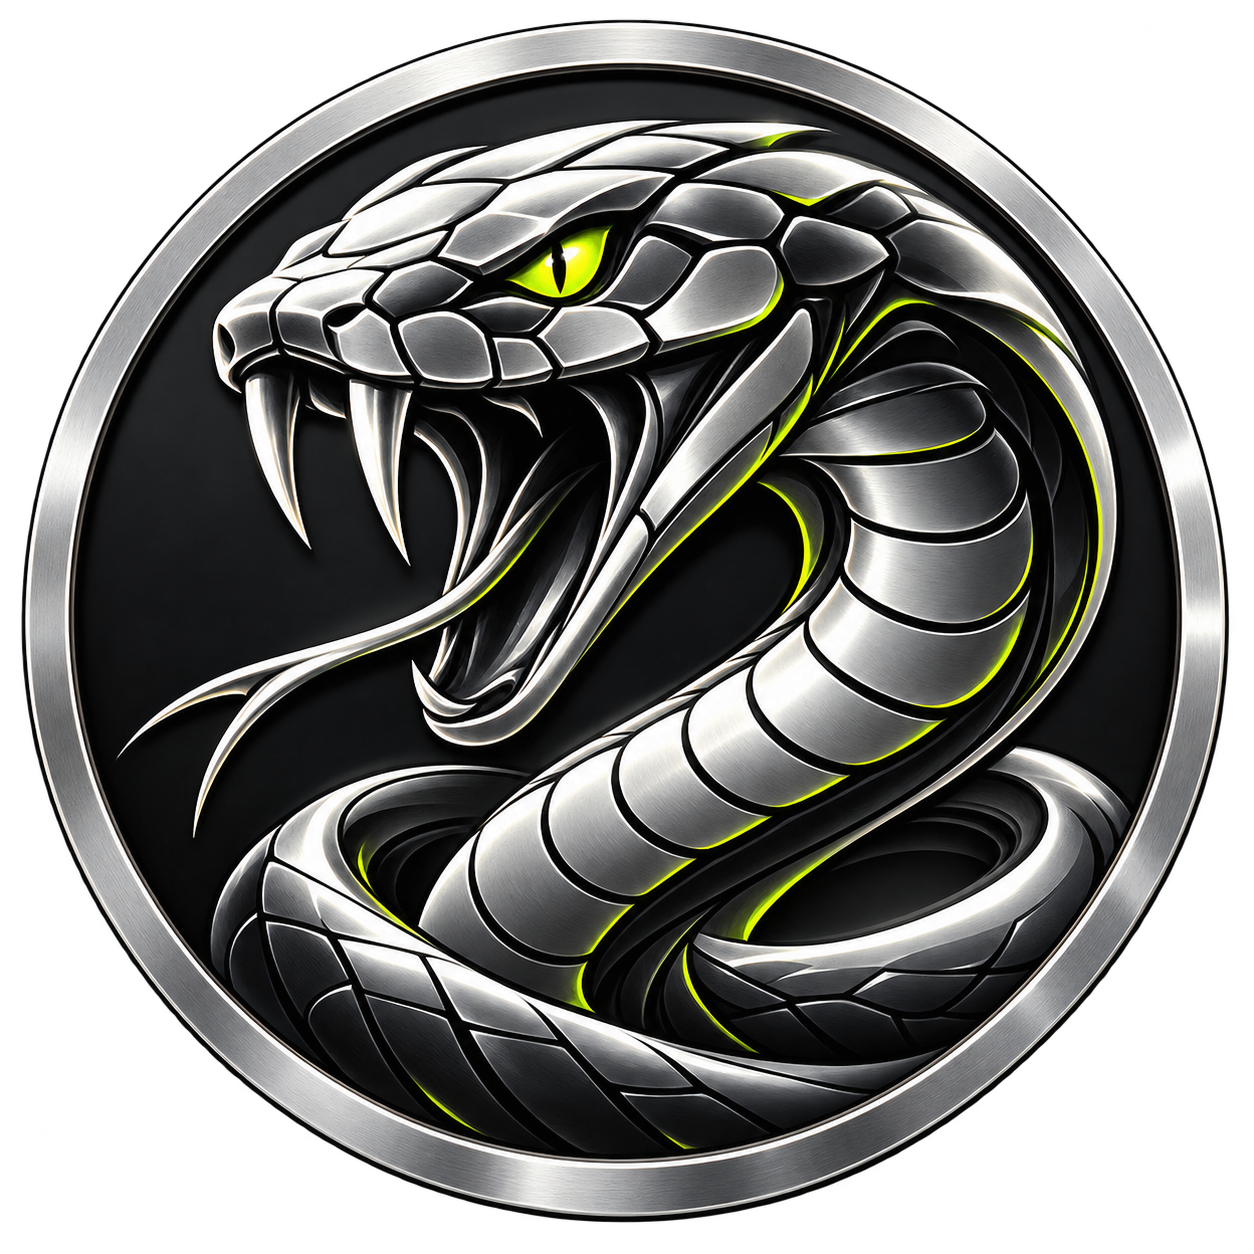
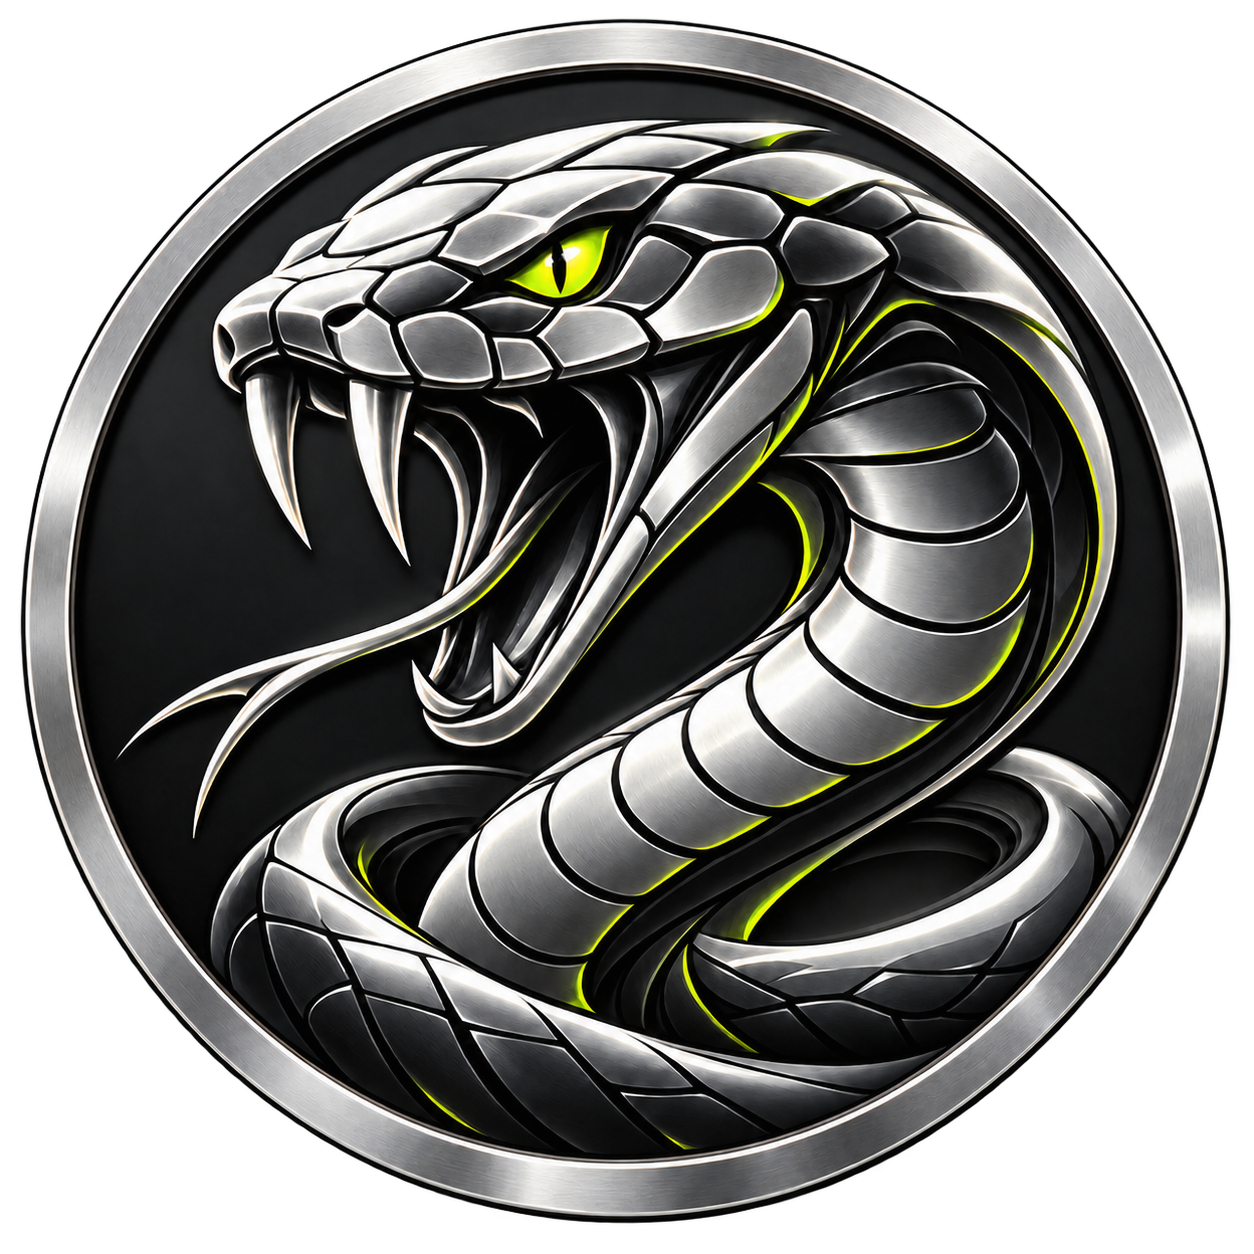
Add matching second lower tooth to the coin emblem

diff --git a/design/HEADER_ASSETS.md b/design/HEADER_ASSETS.md
@@ -13,3 +13,7 @@ Use case: logo-brand. Create a new original V1PER website coin emblem, using the
 ## Banner texture
 
 Use the owner-supplied black snakeskin banner as the background, with a dark overlay for text contrast. Preserve the texture itself; only transcode to WebP for delivery.
+
+## Final lower-tooth edit prompt
+
+Precise minimal edit to the supplied original logo: add exactly ONE small silver tooth on the BOTTOM jaw at the user's marked spot, x=41.6%, y=53.7%. There is already a small triangular tooth on the bottom jaw near x=33.4%, y=53%. Keep that existing small bottom tooth unchanged. The new second bottom tooth should match that SMALL tooth, be only about 3% of canvas height, with its base near (41.6%,53.7%) and upward pointed tip near (41%,51%). It must emerge from the lower gum, not the roof of the mouth. Do not add a pair of new long fangs in the middle of the mouth. Keep the two large upper fangs unchanged. Every other pixel/content of the coin should remain as close to the input as possible: same silver rim, pose, scales, lime eye, tongue, highlights, black coin face, transparent outside, crop. No new large teeth, no changed tongue, no other modifications. Exactly one added small lower tooth.
